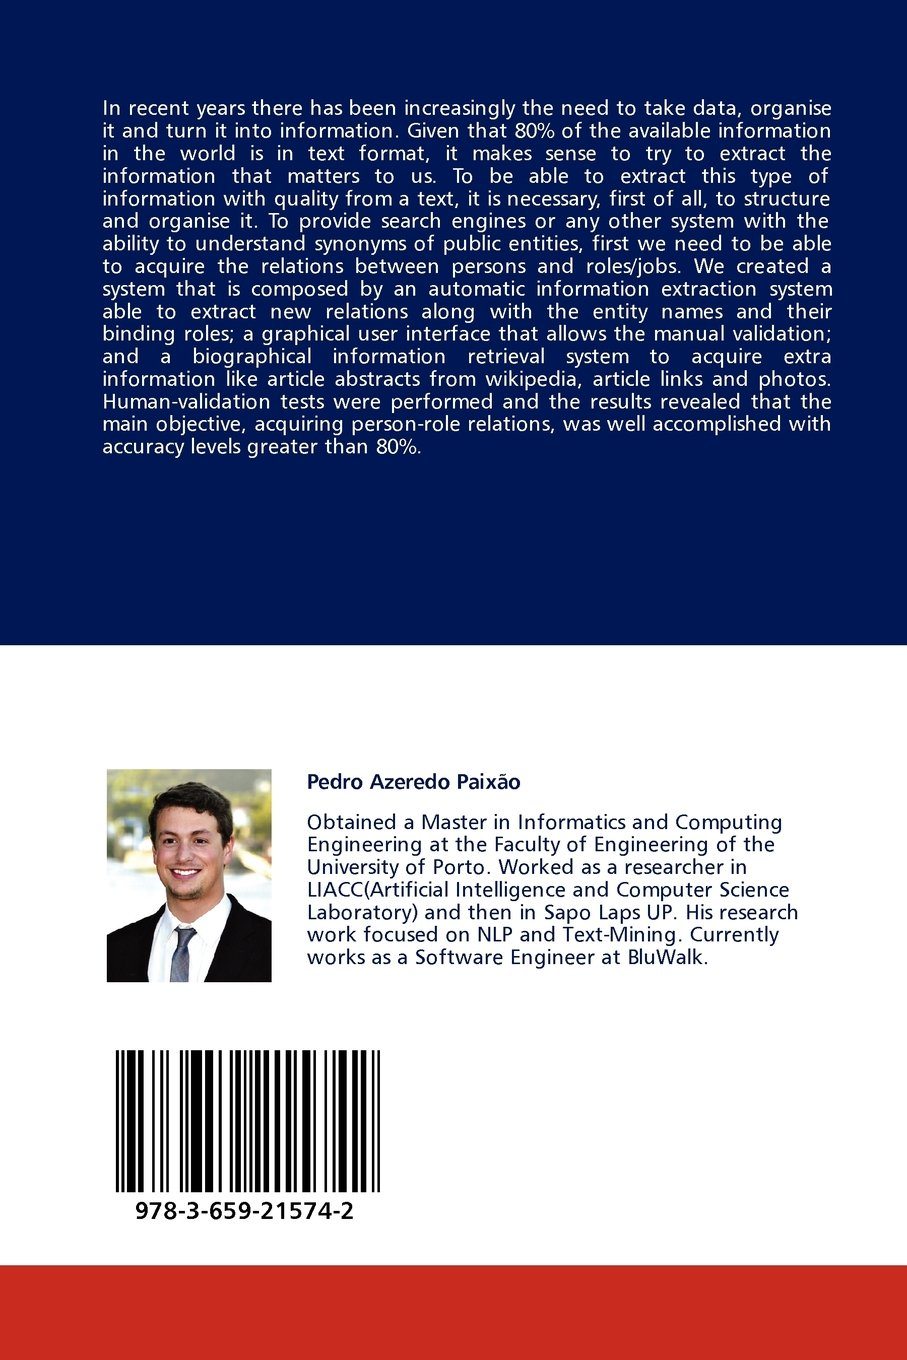
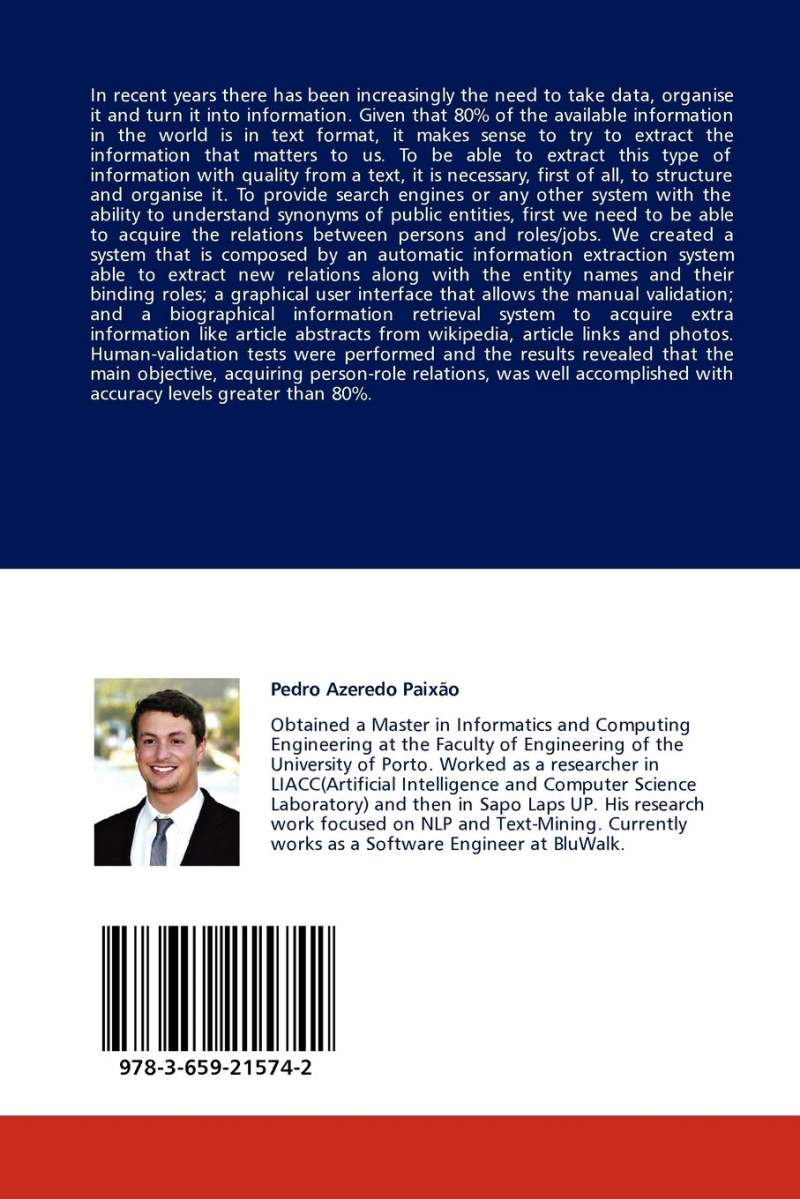
Optimized OntoExtract pictures

diff --git a/projects/ontoextract/index.md b/projects/ontoextract/index.md
@@ -63,4 +63,4 @@ Automatic Extraction of Biographical Data :
 - **Amazon link**: [Amazon link](https://www.amazon.com/Automatic-Extraction-of-Biographical-Data/dp/3659215740)
 
 
-{% include figure.html url="/assets/imgs/ontoextract/book.png" description="OntoExtract's gave origin to a book that is published on Amazon" %}
+{% include figure.html url="/assets/imgs/ontoextract/book.jpg" description="OntoExtract's gave origin to a book that is published on Amazon" %}
